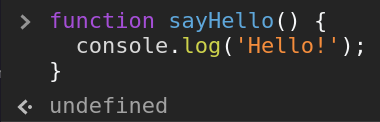
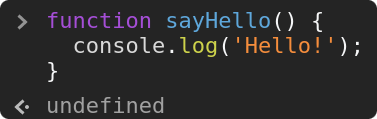
Centering images and giving then rounded corders

diff --git a/function-with-parentheses/README.md b/function-with-parentheses/README.md
@@ -14,11 +14,9 @@ We can not see the reserved word `return` inside the function's body, but there 
 
 Let's check this on [DevTools](https://developer.mozilla.org/en-US/docs/Learn/Common_questions/What_are_browser_developer_tools):
 
-<div style="text-align: center">
-
-![Function declaration returning undefined](./.github/images/function-declaration.png)
-
-</div>
+<p align="center">
+  <img src="./.github/images/function-declaration.png" alt="Function declaration returning undefined" />
+</p>
 
 As you can see, the function declaration returned `undefined`, but ok. The important detail is now.
 
@@ -26,11 +24,9 @@ Pay attention to these two cases:
 
 ### **1. Function implementation**
 
-<div style="text-align: center">
-
-![Getting function implementation](./.github/images/getting-function-implementation.png)
-
-</div>
+<p align="center">
+  <img src="./.github/images/getting-function-implementation.png" alt="Getting function implementation" />
+</p>
 
 Observe the return type, it's a function, it happens because the content of `sayHello` is a function. It's similar to use an [arrow function](https://developer.mozilla.org/en-US/docs/Web/JavaScript/Reference/Functions/Arrow_functions) instead, the return will be "the same" (try it later in you browser):
 
@@ -51,11 +47,9 @@ anotherFunction();
 
 ### **2. Function execution**
 
-<div style="text-align: center">
-
-![Getting function execution](./.github/images/getting-function-execution.png)
-
-</div>
+<p align="center">
+  <img src="./.github/images/getting-function-execution.png" alt="Getting function execution" />
+</p>
 
 Let's see the difference from the other case. Now we have an execution, that means we are running each line of the function, in this case, a simple `console.log`.
 
@@ -65,11 +59,9 @@ This is the return of the function... Yes, we don't have the keyword 'return' th
 
 **Keep in your mind**: Differently of the first case, if we assign the execution of a function who returns `undefined` to a variable, this variable will receive `undefined`:
 
-<div style="text-align: center">
-
-![Assigning return of the function to variable](./.github/images/assigning-return-of-function-to-variable.png)
-
-</div>
+<p align="center">
+  <img src="./.github/images/assigning-return-of-function-to-variable.png" alt="Assigning return of the function to variable" />
+</p>
 
 # Let's go there!
 
@@ -92,7 +84,7 @@ We have two function which do the same thing, with different variables and diffe
 ```javascript
 function run1() {
   counter1 += 1;
-  testdiv1.innerHTML = `Running...${counter1}`;
+  testp1.innerHTML = `Running...${counter1}`;
 }
 ```
 
@@ -112,11 +104,9 @@ The difference between passing the content or passing the returned value is the 
 
 In the second variable/function we are assign the result of execution, who is `undefined`, to be executed by intervals of 1000 milliseconds. And that is why only the first button works as expected.
 
-<div style="text-align: center">
-
-![Showing thi difference between the counters](./.github/images/executing-the-app.png)
-
-</div>
+<p align="center">
+  <img src="./.github/images/executing-the-app.png" alt="Showing thi difference between the counters" />
+</p>
 
 I hope this has helped you with your doubt, but fell free to make a pull request to improve the content or to make another topic on this repo. And issues are also allowed here 😉.
 
